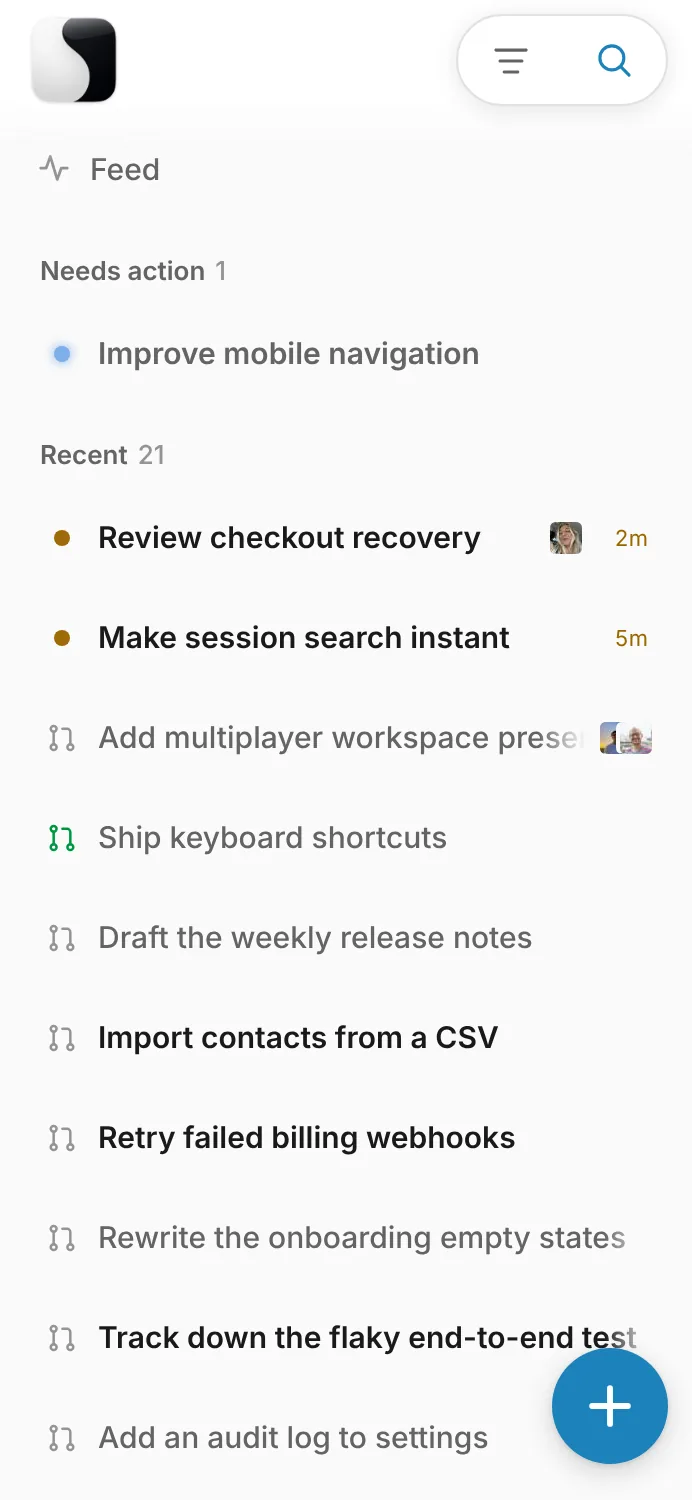
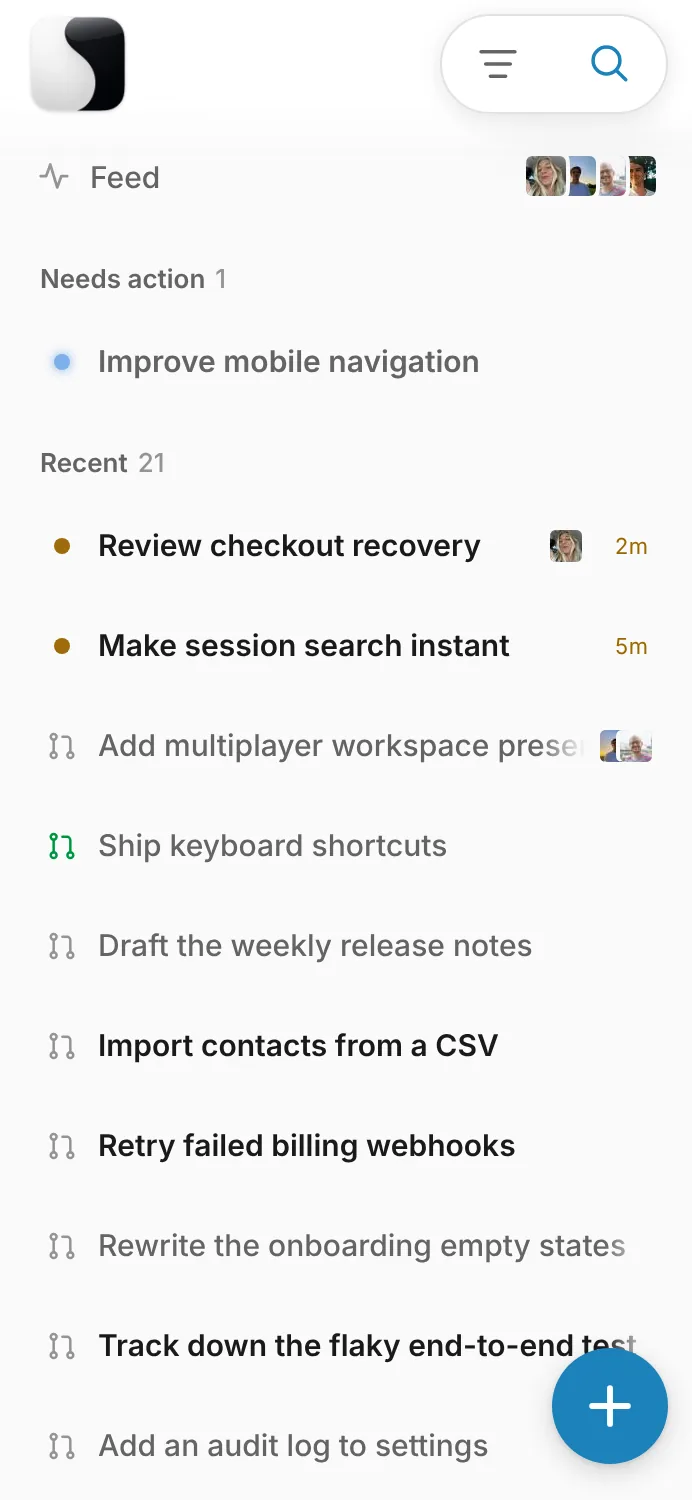
Carry the team on Feed at phone width, and size the top bar to it
Two things about the phone sidebar, both about it agreeing with itself.

The Feed row's face pile was desktop only. It was gated off at phone width
back when the tools were horizontal cards, where there was no right edge to
put it on. The tools are rows now, so the room is there: the pile is its own
target laid over the row, so a tap on a face opens the person lens and a tap
anywhere else opens Feed. Phones pad the trigger to the row's height, which
makes it a 40px target rather than a 24px one.

The top bar was the smallest thing on the screen once the lists under it
became 48px rows. The grouped bar control goes 44 to 48 tall on a 28px glyph,
and the settings mark 42 to 46 of ink, which keeps the mark a hair under the
buttons opposite it and its ink on the list's own 16px text column. The bar
spends 8px of its height on its top pad, so --header-h grows 52 to 56 with
them.

Measured at 390px: 48px segments with 28px glyphs, a 46px mark, the bar
fitting both to the pixel, and the Feed pile 91x40 inside its 48px row.
Desktop is untouched by construction, every rule here being phone-scoped or
the brand variant the desktop chrome never renders, and its poster re-shoots
to a 0.217/255 mean difference.

diff --git a/packages/core/opensession-server/src/frontend/lib/app-header-classes.ts b/packages/core/opensession-server/src/frontend/lib/app-header-classes.ts
@@ -170,27 +170,29 @@ export const APP_BRAND = "app-brand flex min-w-0 items-center gap-0.5";
 /**
  * The mark, as the Settings trigger. `order-1` seats it before the update pill
  * (which claims `order-3`); the 4px indent lines the MARK up with the list's
- * 16px text column below rather than with the bar's own 12px edge — the button
- * sits 4px in because the mark starts at the button's left edge, its 52px image
- * overhanging the 42px button by 5px a side against ~5px of transparent margin
+ * 16px text column below rather than with the bar's own 12px edge. The button
+ * sits 4px in because the mark starts at the button's left edge, its 58px image
+ * overhanging the 46px button by 6px a side against the transparent margin
  * baked into the untrimmed asset.
  */
 export const APP_LOGO_BUTTON =
-	"relative inline-flex size-[42px] items-center justify-center rounded-control " +
+	"relative inline-flex size-[46px] items-center justify-center rounded-control " +
 	"border-none bg-transparent p-0 text-inherit cursor-pointer " +
 	"[-webkit-tap-highlight-color:transparent] active:bg-hover " +
 	"phone:order-1 phone:ml-1";
 
 /**
- * Sized so the MARK measures ~42px, a hair under the 44px bar buttons opposite
+ * Sized so the MARK measures ~46px, a hair under the 48px bar buttons opposite
  * it. Those are outlines around air and this is solid ink, so equal boxes would
  * read mark-heavy; the pair balances with the mark the slightly smaller box.
- * The box runs bigger again than the mark — unlike a repo icon this asset isn't
- * trimmed (it is also the favicon and the og:image, which want their padding)
- * and carries its artwork on 80% of its canvas, so 52 × 0.8 ≈ 42px of ink. The
- * overflow past the button is transparent margin and touches nothing.
+ * The box runs bigger again than the mark, because unlike a repo icon this
+ * asset isn't trimmed (it is also the favicon and the og:image, which want
+ * their padding) and carries its artwork on 80% of its canvas, so 58 × 0.8 ≈
+ * 46px of ink. The overflow past the button is transparent margin and touches
+ * nothing. Both numbers moved together with the bar segments opposite, so the
+ * ink still starts on the button's own left edge and the 16px text column.
  */
-export const APP_LOGO_IMAGE = "block size-[52px]";
+export const APP_LOGO_IMAGE = "block size-[58px]";
 
 /**
  * Live connection dot on the avatar's corner (the desktop sidebar's chrome
@@ -380,20 +382,26 @@ export const APP_HEADER_ACTIONS_DETAIL =
 	`${HEADER_ACTIONS_BASE} phone:ml-2.5 phone:flex-none phone:gap-2.5`;
 
 /**
- * A segment of the grouped bar control (see `APP_HEADER_ACTIONS`): 44pt tall
- * and wider than it is high, with no chrome of its own — the capsule around it
+ * A segment of the grouped bar control (see `APP_HEADER_ACTIONS`): 48pt tall
+ * and wider than it is high, with no chrome of its own. The capsule around it
  * draws the border, fill and shadow. The glyph is thickened past its 1.5 stroke
  * because iOS nav-bar glyphs are bold and it reads spindly at this size
  * otherwise.
+ *
+ * It was 44 tall on a 25px glyph, which is the iOS nav-bar figure, and it read
+ * small against the sidebar under it: the tools and the sessions are 48px rows
+ * now, so the one control above them was the smallest thing on the screen. The
+ * step is 48/28, and `--header-h` grew with it (base.css) since the bar's 8px
+ * top pad left exactly 44px of room.
  */
 const MOBILE_BAR_SEGMENT =
-	"phone:relative phone:inline-flex phone:h-11 phone:w-13 phone:shrink-0 " +
+	"phone:relative phone:inline-flex phone:h-12 phone:w-14 phone:shrink-0 " +
 	"phone:items-center phone:justify-center phone:rounded-none " +
 	"phone:border-none phone:bg-transparent phone:p-0 phone:shadow-none " +
 	"phone:cursor-pointer phone:touch-manipulation " +
 	"phone:[-webkit-tap-highlight-color:transparent] " +
 	"phone:active:opacity-35 phone:active:duration-0 " +
-	"phone:[&_svg]:size-[25px] phone:[&_svg]:[stroke-width:2]";
+	"phone:[&_svg]:size-[28px] phone:[&_svg]:[stroke-width:2]";
 
 /**
  * Search — the trailing half of the pair. No rule divides it from the filter:

diff --git a/packages/core/opensession-server/src/frontend/components/Sidebar.tsx b/packages/core/opensession-server/src/frontend/components/Sidebar.tsx
@@ -4495,11 +4495,13 @@ export const Sidebar = React.forwardRef<SidebarHandle, Props>(function Sidebar({
 						// leaving the row you're on. The pile opens the same lens menu
 						// the Feed page's own chips write, so the row is both a way in
 						// and the shortcut past it. It has to be a sibling of the row,
-						// not a child: a button can't nest one. Desktop only, even now
-						// that phones render the tools as rows with room for it: a pile
-						// laid over the row's right edge competes with the row's own tap
-						// where there is no hover to distinguish them.
-						if (tool.id !== "feed" || isPhone || team.length === 0) return row;
+						// not a child: a button can't nest one. Phones carry it too,
+						// now that the tools are rows there rather than cards: the row
+						// has the width for a pile at its right edge, and the pile is
+						// its own target laid over it rather than a hover reveal, so a
+						// tap on a face opens the lens and a tap anywhere else opens
+						// Feed.
+						if (tool.id !== "feed" || team.length === 0) return row;
 						return (
 							<div key={tool.id} className="group/team-lens relative">
 								{row}
@@ -4519,7 +4521,11 @@ export const Sidebar = React.forwardRef<SidebarHandle, Props>(function Sidebar({
 									onPick={(next) =>
 										setFilter({ person: personLensFilter(next, currentUser) })
 									}
-									className="absolute right-2 top-1/2 -translate-y-1/2 [--team-face-ring:var(--sidebar-bg)] group-hover/team-lens:[--team-face-ring:var(--row-chip)] data-[popup-open]:[--team-face-ring:var(--row-chip)]"
+									// Phones pad the trigger out to the row's own height so
+									// the faces are a thumb-sized target rather than a 24px
+									// one. It stays a pill either way, so the padding is only
+									// reach: nothing about it reads larger at rest.
+									className="absolute right-2 top-1/2 -translate-y-1/2 phone:py-2.5 [--team-face-ring:var(--sidebar-bg)] group-hover/team-lens:[--team-face-ring:var(--row-chip)] data-[popup-open]:[--team-face-ring:var(--row-chip)]"
 								/>
 							</div>
 						);

diff --git a/packages/core/opensession-server/src/frontend/styles/base.css b/packages/core/opensession-server/src/frontend/styles/base.css
@@ -380,8 +380,11 @@
 	/* Shared height for the desktop sidebar, session header and PR strip. */
 	--desktop-header-h: 48px;
 	/* Header height grows by the iOS status-bar inset when installed as a PWA
-     (black-translucent draws the webview under the clock/notch) */
-	--header-h: calc(52px + env(safe-area-inset-top, 0px));
+     (black-translucent draws the webview under the clock/notch).
+     56 rather than 52: the bar spends 8px of it on its own top pad, so this is
+     what leaves room for the 48px controls in it (MOBILE_BAR_SEGMENT and the
+     settings mark, lib/app-header-classes.ts). Move the two together. */
+	--header-h: calc(56px + env(safe-area-inset-top, 0px));
 }
 
 /* Above the phone breakpoint the top bar isn't rendered at all, so nothing is
